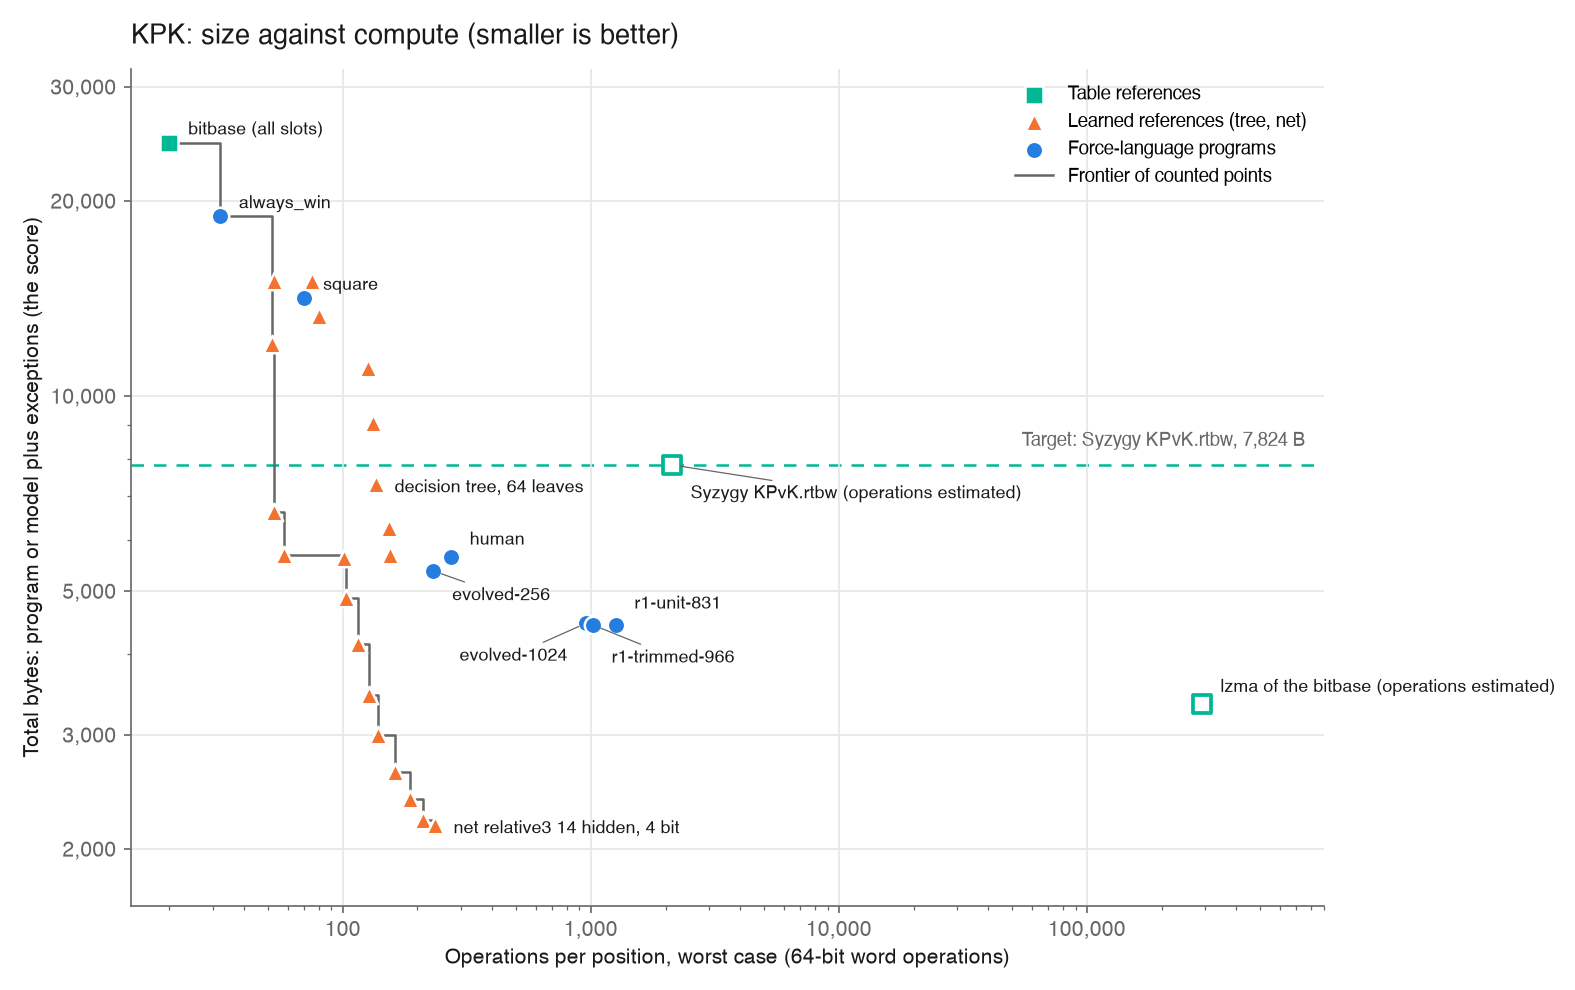
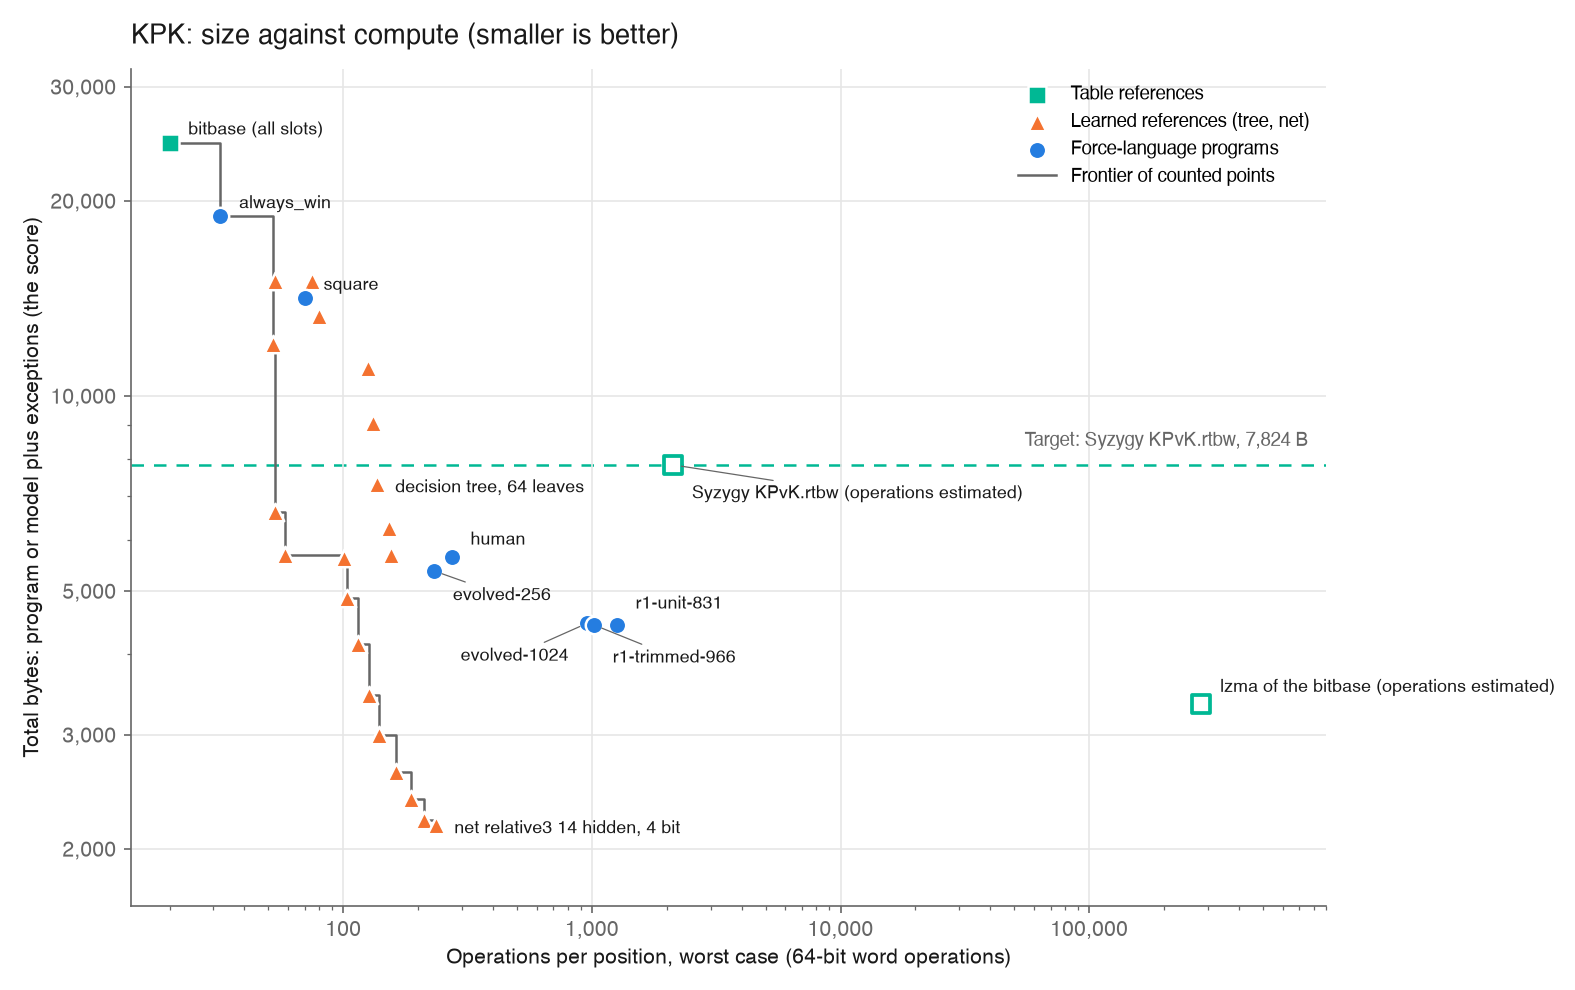
lzma's operations from one pinned timing, so the report no longer changes from run to run

diff --git a/src/chess_forces/baselines.py b/src/chess_forces/baselines.py
@@ -10,7 +10,6 @@ import json
 import lzma
 import math
 import os
-import time
 from dataclasses import asdict, dataclass
 from pathlib import Path
 
@@ -24,6 +23,9 @@ SYZYGY_DIR = Path(os.environ.get("SYZYGY_PATH", ROOT.parent / "syzygy"))
 TREES_DIR = endgames.KPK.trees
 TREE_LEAVES = (2, 4, 8, 16, 32, 64, 96, 128)
 SYZYGY_NAME = "Syzygy KPvK.rtbw"
+# Decompressing the lzma bitbase (3,341 B to 24,576 B) with Python's lzma: median of 200 runs on an
+# Apple M4 Pro, 2026-11-26. Pinned so the report does not change from run to run; an estimate.
+LZMA_DECODE_SECONDS = 94.2e-6
 
 
 @dataclass
@@ -130,12 +132,7 @@ def table_points(win: dict | None = None) -> list[Point]:
         {"id": lzma.FILTER_LZMA2, "preset": 9 | lzma.PRESET_EXTREME, "lc": 0, "lp": 0, "pb": 0}
     ]
     blob = lzma.compress(packed, format=lzma.FORMAT_RAW, filters=filters)
-    best = min(
-        _time(lambda: lzma.decompress(blob, lzma.FORMAT_RAW, filters=filters)) for _ in range(5)
-    )
-    ops = (
-        best * 3e9
-    )  # order of magnitude only: cold decompression time at 3 GHz, one operation a cycle
+    ops = LZMA_DECODE_SECONDS * 3e9  # order of magnitude only: one operation a cycle at 3 GHz
     out.append(
         Point(
             "lzma of the bitbase",
@@ -147,18 +144,12 @@ def table_points(win: dict | None = None) -> list[Point]:
             ops,
             True,
             True,
-            "one lzma setting, not tuned; operations are a rough estimate from decompression time "
-            "(everything must be unpacked for a single position)",
+            "one lzma setting, not tuned; operations are a rough estimate from one pinned decompression "
+            "time (everything must be unpacked for a single position)",
             real_bytes=len(blob),
         )
     )
     return out
-
-
-def _time(f) -> float:
-    t = time.perf_counter()
-    f()
-    return time.perf_counter() - t
 
 
 # --- decision tree as a DSL program --------------------------------------------------------------

diff --git a/endgames/kpk/report.md b/endgames/kpk/report.md
@@ -49,7 +49,7 @@ Total bytes is the bound used for ranking and the plot; real bytes is an actual 
 | decision tree, 8 leaves | 13,288 | 15,654 | 39.9 | 13,248.3 | 26,881 | 80 |
 | decision tree, 2 leaves | 15,028 | 18,068 | 9.7 | 15,017.8 | 33,400 | 53 |
 | decision tree, 4 leaves | 15,040 | 18,081 | 22.6 | 15,017.8 | 33,400 | 75 |
-| lzma of the bitbase | 3,341 | 3,341 | 3,341.0 | 0.0 | 0 | 290,124 (est) |
+| lzma of the bitbase | 3,341 | 3,341 | 3,341.0 | 0.0 | 0 | 282,600 (est) |
 | Syzygy KPvK.rtbw | 7,824 | 7,824 | 7,824.0 | 0.0 | 0 | 2,122 (est) |
 | bitbase (all slots) ★ | 24,576 | 24,576 | 24,576.0 | 0.0 | 0 | 20 |
 
